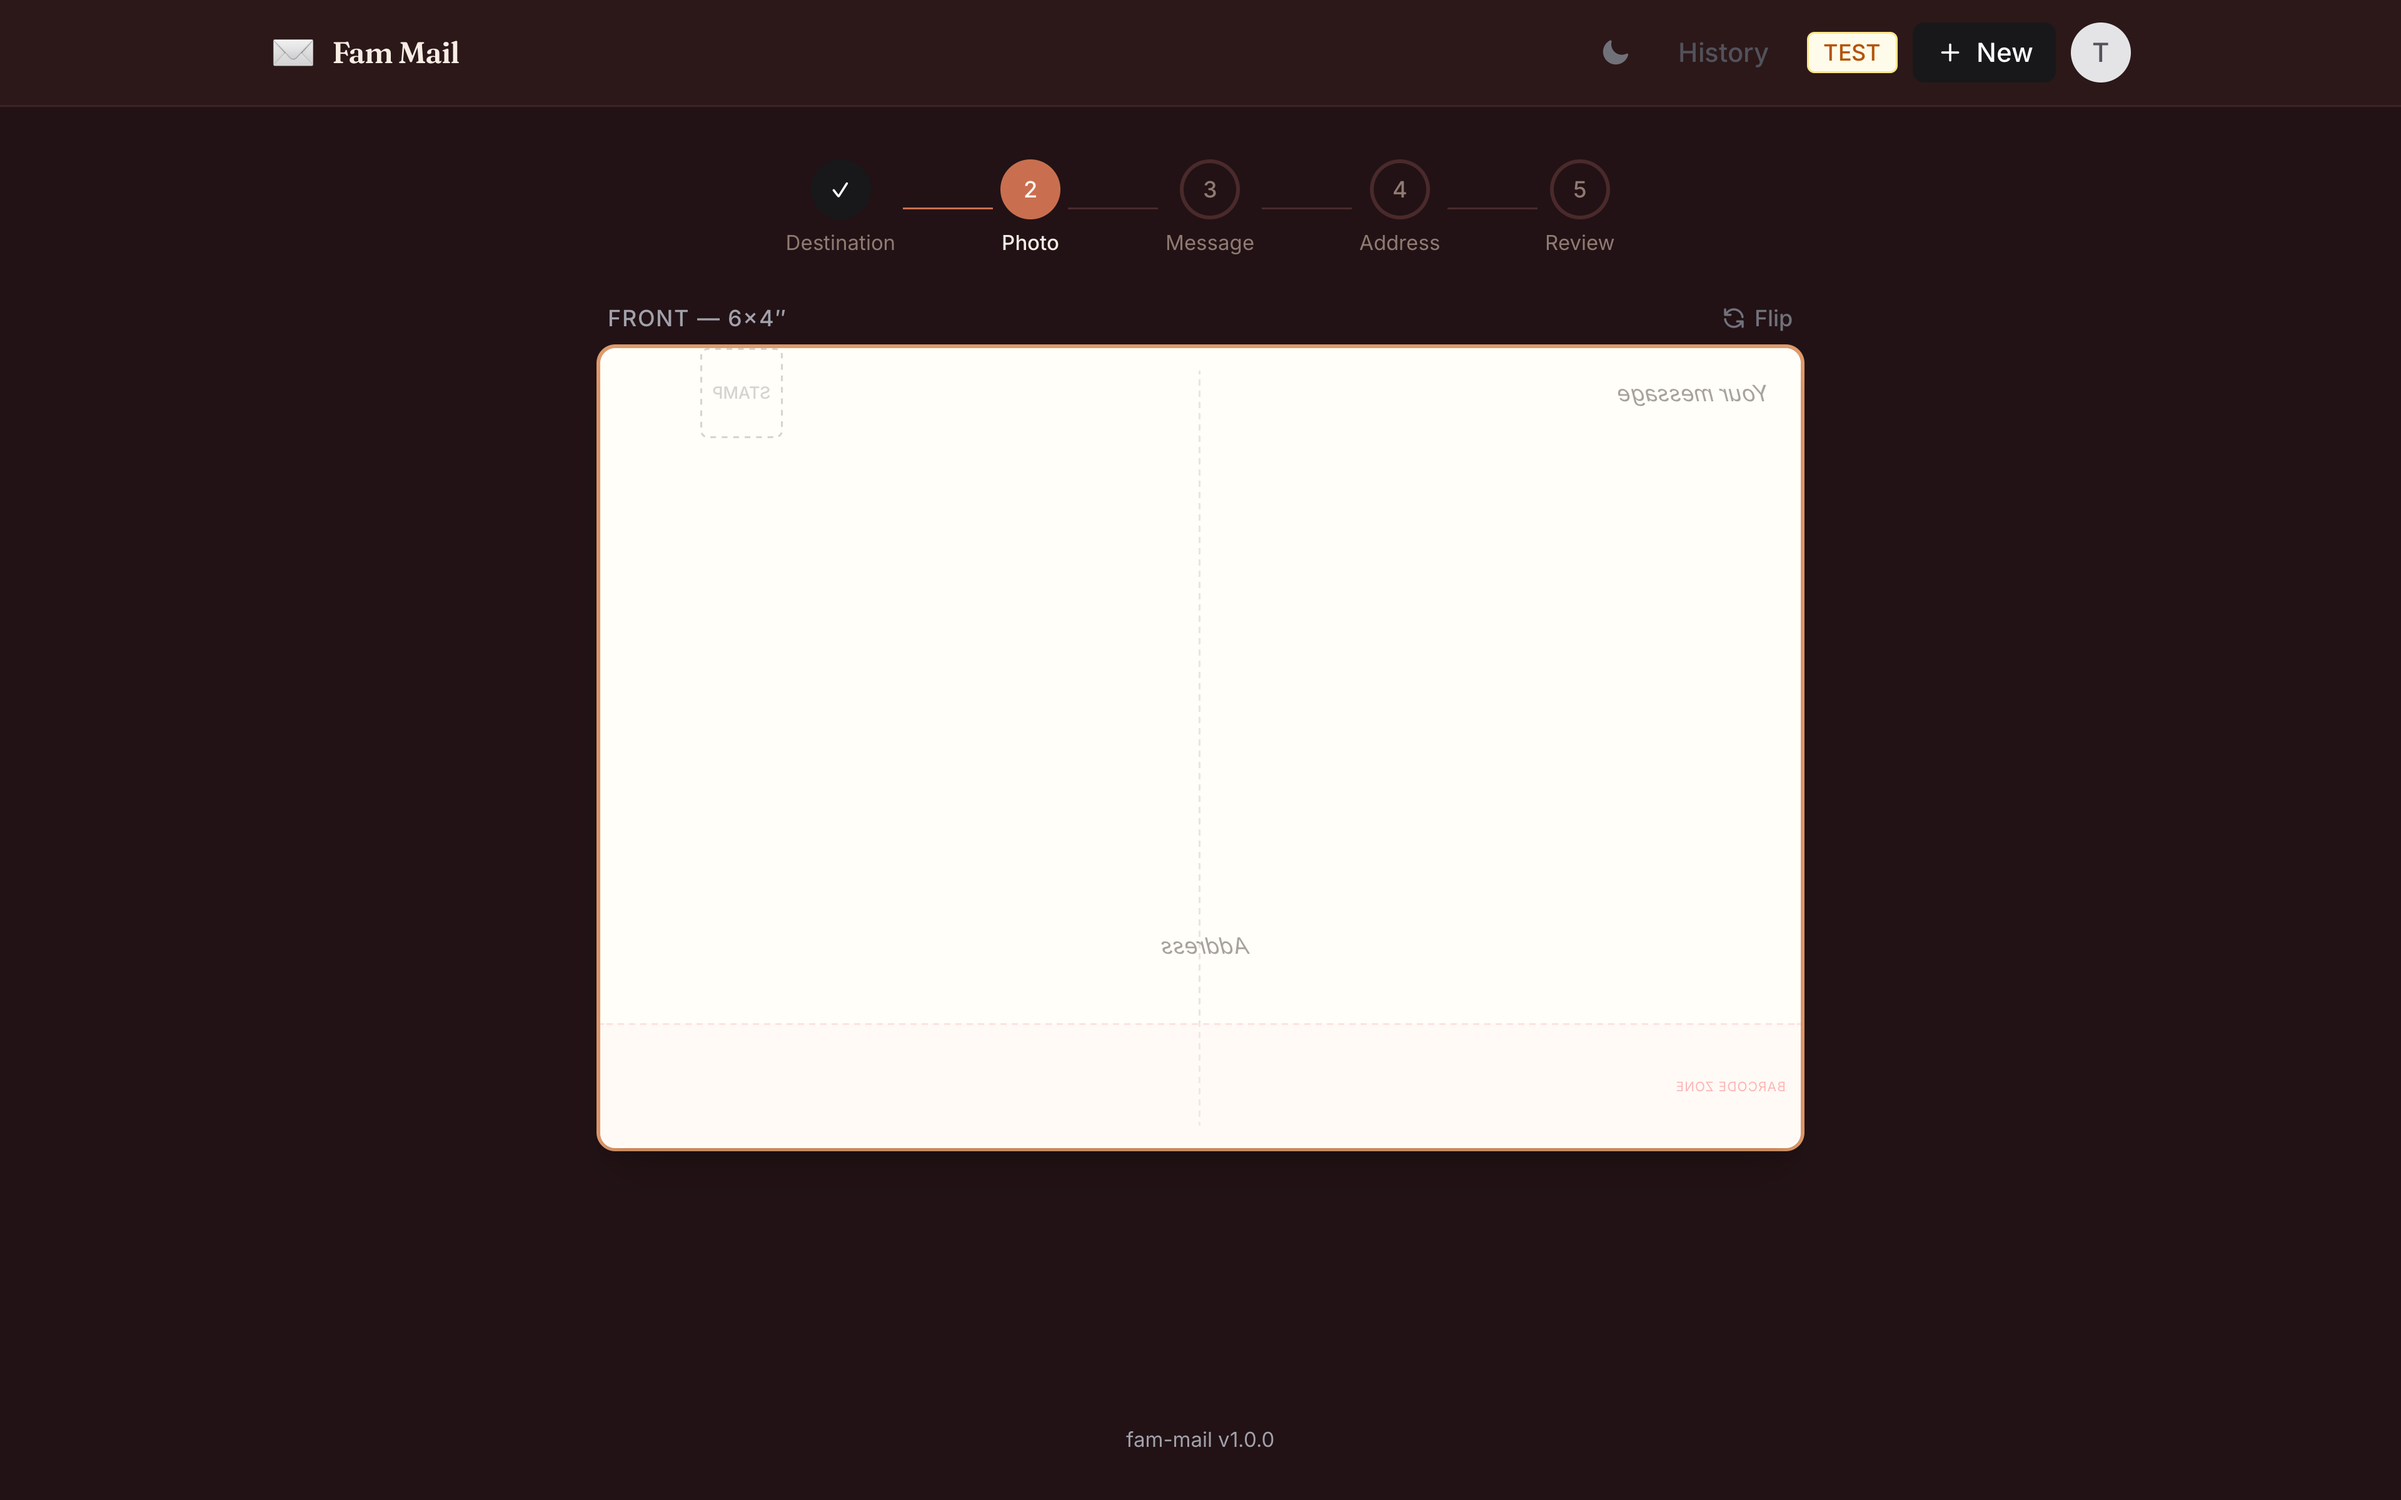
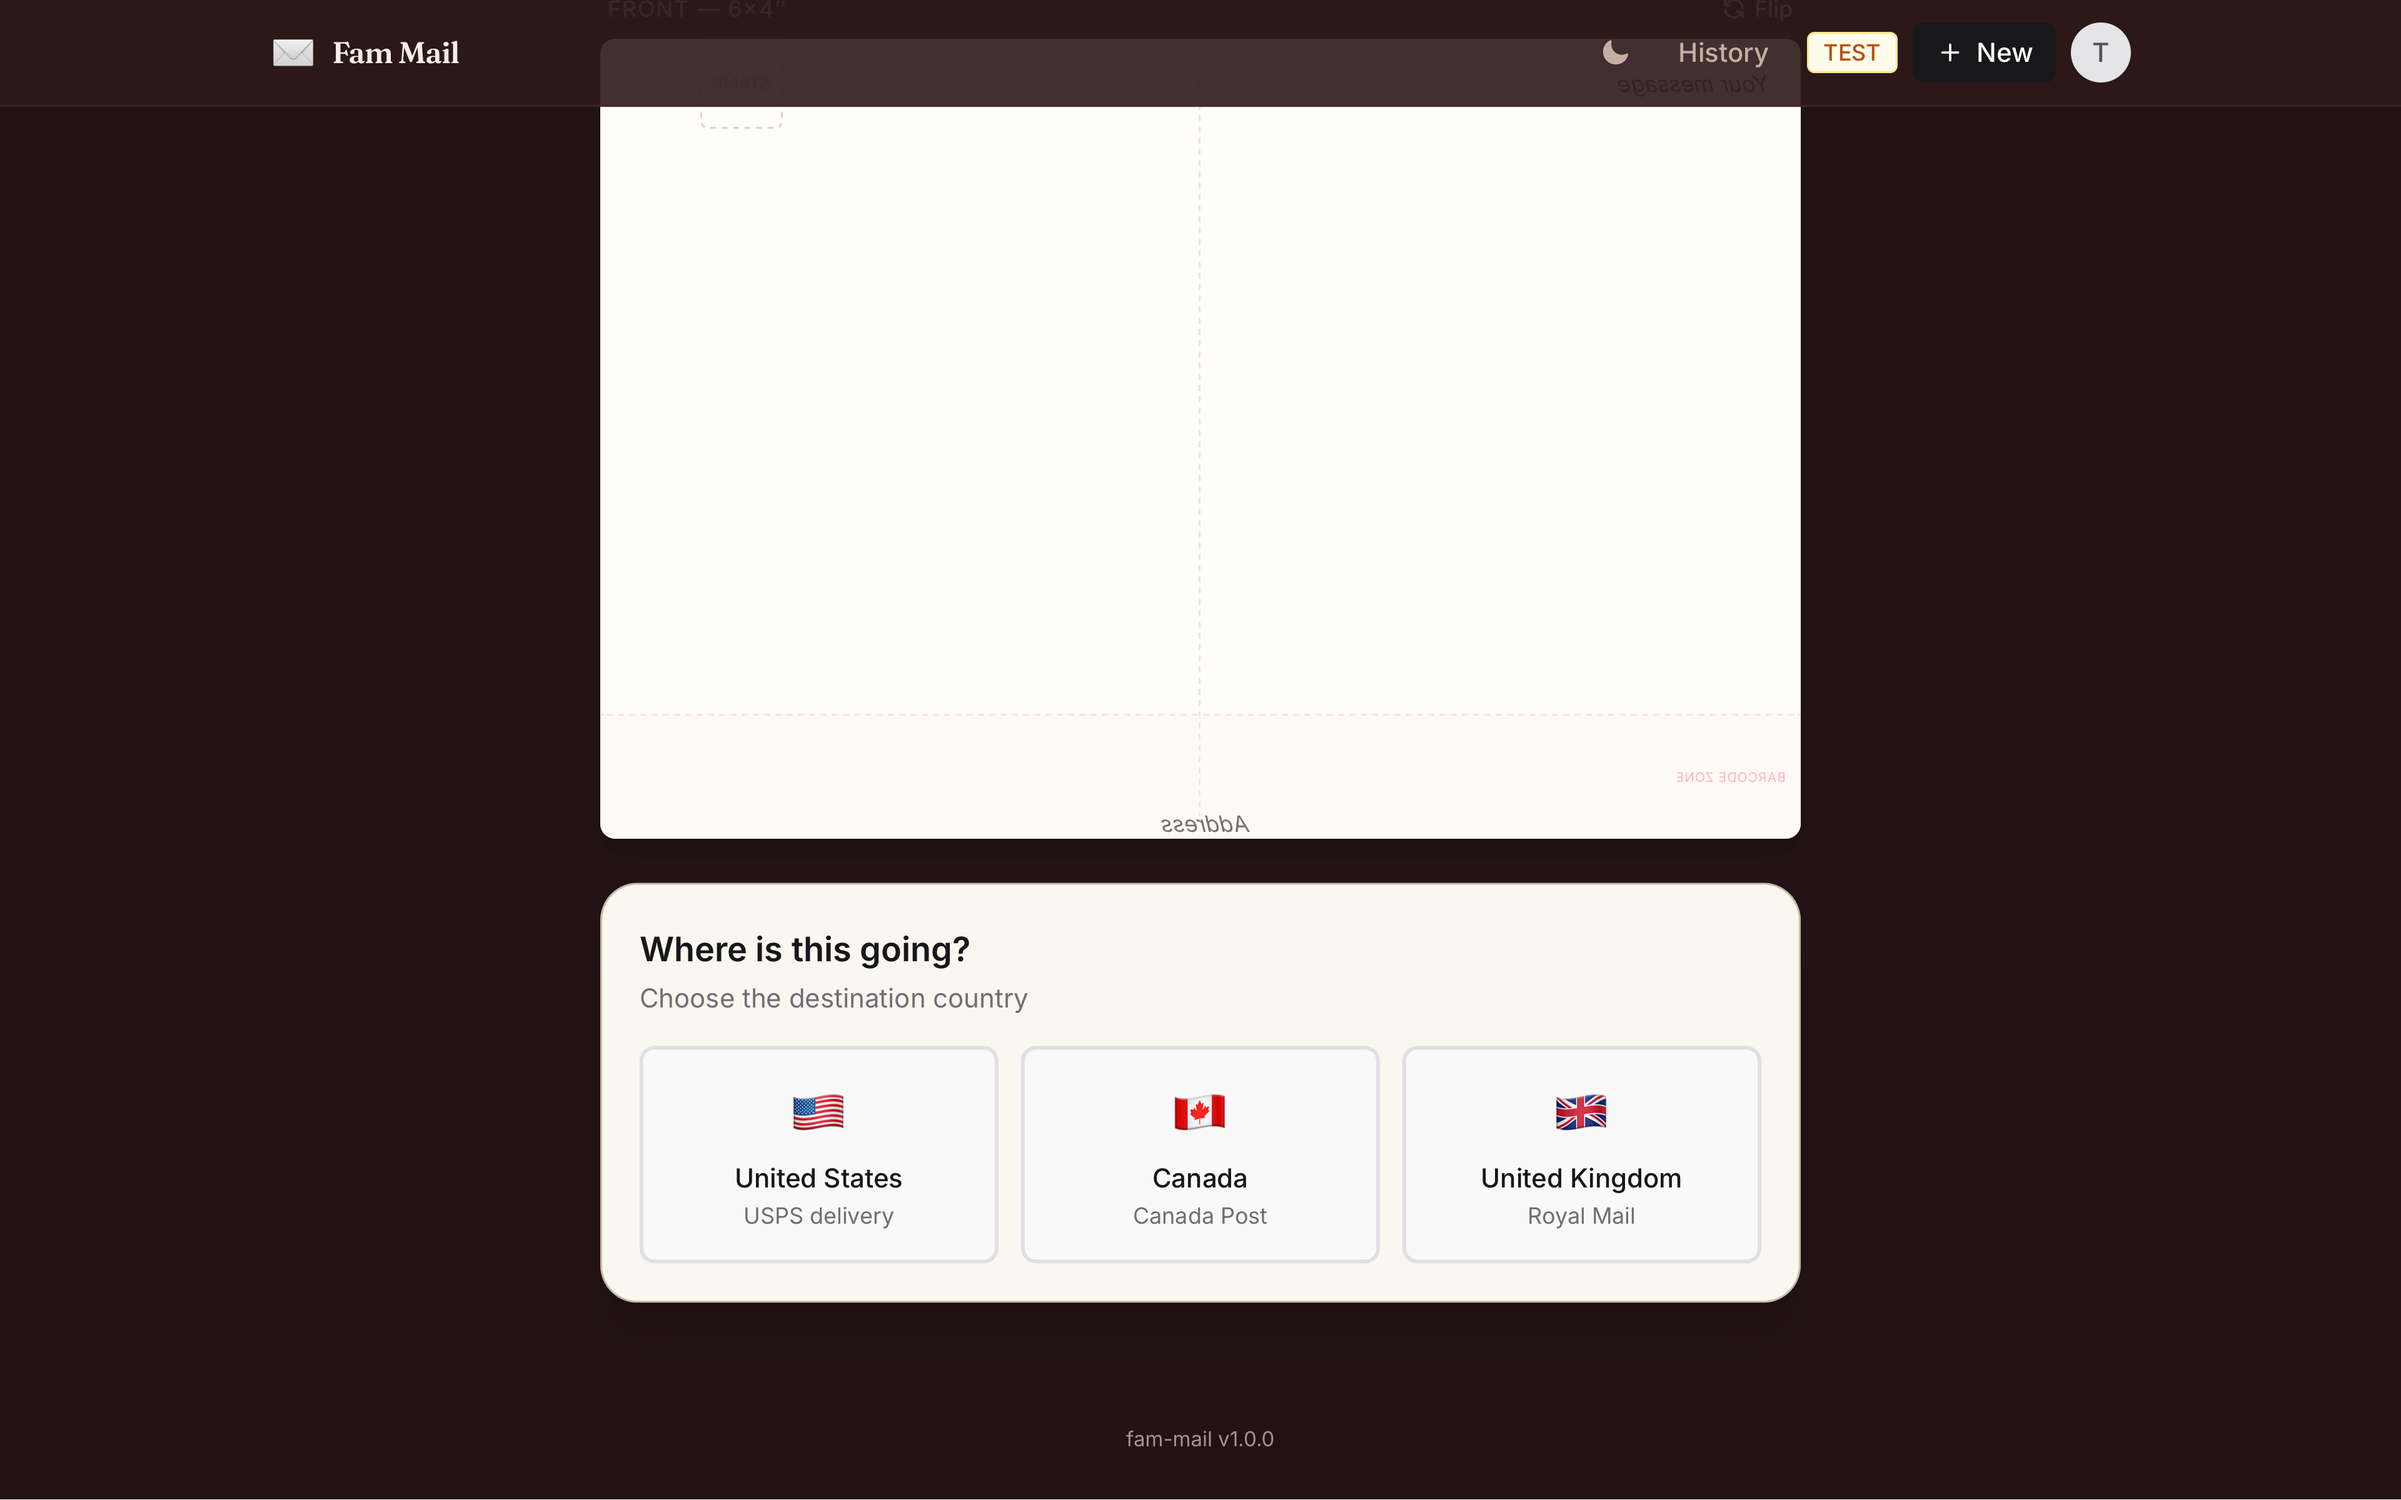
wip: warm theme brightening pass — theme-color, ink/clay tokens, shell nowrap (Nick's in-progress editor-shell work, committed by nightshift PM to protect it)

diff --git a/frontend/src/components/postcard/PostcardPreview.tsx b/frontend/src/components/postcard/PostcardPreview.tsx
@@ -206,17 +206,17 @@ export function PostcardPreview({
               </>
             ) : (
               <div className={`group w-full h-full flex flex-col items-center justify-center transition-colors ${
-                isDragActive ? 'bg-clay/10' : isPhotoActive ? 'bg-zinc-50' : 'bg-zinc-100'
+                isDragActive ? 'bg-clay/10' : isPhotoActive ? 'bg-ink-raised' : 'bg-ink-surface'
               }`}>
                 {isPhotoActive ? (
                   <div className={`border-2 border-dashed rounded-lg w-[80%] h-[75%] flex flex-col items-center justify-center gap-2 transition-colors group-hover:border-zinc-400 group-hover:bg-zinc-50 ${
-                    isDragActive ? 'border-clay bg-clay/10' : 'border-zinc-300'
+                    isDragActive ? 'border-warm-ring bg-ink-raised' : 'border-ink-line'
                   }`}>
-                    <svg xmlns="http://www.w3.org/2000/svg" viewBox="0 0 24 24" fill="currentColor" className="w-8 h-8 text-zinc-400 group-hover:text-zinc-500 transition-colors">
+                    <svg xmlns="http://www.w3.org/2000/svg" viewBox="0 0 24 24" fill="currentColor" className="w-8 h-8 text-warm-text2 group-hover:text-warm-text transition-colors">
                       <path fillRule="evenodd" d="M1.5 6a2.25 2.25 0 012.25-2.25h16.5A2.25 2.25 0 0122.5 6v12a2.25 2.25 0 01-2.25 2.25H3.75A2.25 2.25 0 011.5 18V6zM3 16.06V18c0 .414.336.75.75.75h16.5A.75.75 0 0021 18v-1.94l-2.69-2.689a1.5 1.5 0 00-2.12 0l-.88.879.97.97a.75.75 0 11-1.06 1.06l-5.16-5.159a1.5 1.5 0 00-2.12 0L3 16.061zm10.125-7.81a1.125 1.125 0 112.25 0 1.125 1.125 0 01-2.25 0z" clipRule="evenodd" />
                     </svg>
-                    <span className="text-sm font-medium text-zinc-500">Upload your photo</span>
-                    <span className="text-xs text-zinc-400">or drag and drop</span>
+                    <span className="text-sm font-medium text-warm-text2">Upload your photo</span>
+                    <span className="text-xs text-warm-text3">or drag and drop</span>
                   </div>
                 ) : (
                   <span className="text-sm text-stone-600">Photo</span>

diff --git a/frontend/src/components/layout/AppShell.tsx b/frontend/src/components/layout/AppShell.tsx
@@ -43,7 +43,7 @@ export function AppShell({ children, variant = 'default' }: { children: ReactNod
         <div className="container mx-auto max-w-5xl px-4 h-14 flex items-center justify-between">
           <Link to="/" className="flex items-center gap-2 hover:opacity-80 transition-opacity">
             <span className="text-xl" aria-hidden="true">✉</span>
-            <span className={`text-base font-semibold ${variant === "editor" ? "text-warm-text font-display tracking-tight" : "text-zinc-900"}`}>Fam Mail</span>
+            <span className={`text-base font-semibold whitespace-nowrap ${variant === "editor" ? "text-warm-text font-display tracking-tight" : "text-zinc-900"}`}>Fam Mail</span>
           </Link>
 
           <div className="flex items-center gap-2">

diff --git a/frontend/tailwind.config.js b/frontend/tailwind.config.js
@@ -13,14 +13,14 @@ export default {
       },
       colors: {
         ink: {
-          bg: '#221215',
-          surface: '#2E181A',
-          raised: '#3B2022',
-          line: '#4A2A2B',
+          bg: '#3B1D1E',
+          surface: '#482527',
+          raised: '#562D2E',
+          line: '#6B3A38',
         },
         clay: {
-          DEFAULT: '#C96F4F',
-          hover: '#D9805E',
+          DEFAULT: '#CE7A57',
+          hover: '#DD8F6C',
           soft: '#FFF6EF',
         },
         paper: {

diff --git a/frontend/index.html b/frontend/index.html
@@ -14,7 +14,7 @@
       } catch (e) {}
     </script>
     <link rel="icon" type="image/svg+xml" href="/envelope.svg" />
-    <meta name="theme-color" content="#221215" />
+    <meta name="theme-color" content="#3B1D1E" />
     <meta name="viewport" content="width=device-width, initial-scale=1.0, viewport-fit=cover" />
     <title>Fam Mail - Send Postcards to Friends & Family</title>
     <link rel="preconnect" href="https://fonts.googleapis.com">
